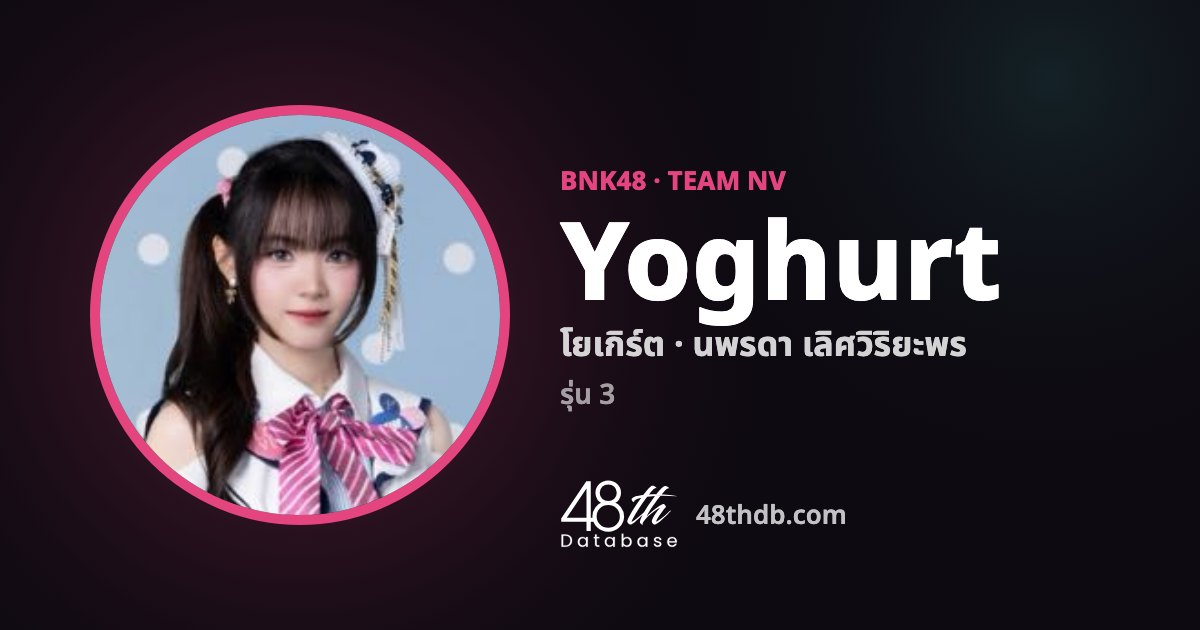
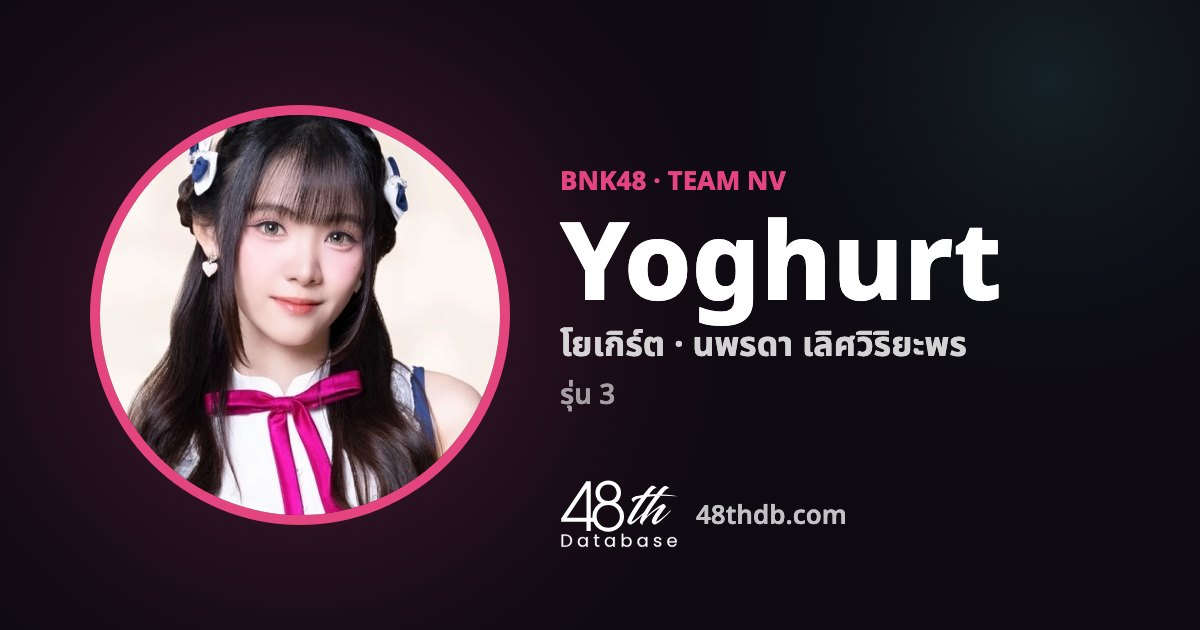
Yoghurt's new profile photo (from the Kimi to Doko ka e Ikitai set, cut square from the top) as a file, her member page and link preview rebuilt. A two-day event done for the first day is no longer faded: it reads วันนี้จบแล้ว · พรุ่งนี้ต่อ. The Worker's timeline walk gives up a number that has fail

Changed region(s): [[0.0617, 0.181, 0.4317, 0.8143]]

diff --git a/m/index.html b/m/index.html
@@ -46,7 +46,7 @@ details.en{margin-top:4px}details.en summary{cursor:pointer;color:var(--soft);fo
 </head><body><div class="wrap">
 <div class="top"><a href="/">48thDb</a><a href="/members">เปิดในเว็บ →</a></div>
 <h1>สมาชิก BNK48 และ CGM48</h1>
-<section class="grp"><h2>BNK48 (37)</h2><div class="list"><a href="/m/bnk-arlee"><img src="/photos/bnk-arlee.jpg" alt="" loading="lazy" width="36" height="36"><span><b>Arlee</b><small>อาหลี · Team NV</small></span></a><a href="/m/bnk-berry"><img src="/photos/bnk-berry.jpg" alt="" loading="lazy" width="36" height="36"><span><b>Berry</b><small>เบอร์รี่ · Team NV</small></span></a><a href="/m/bnk-blythe"><img src="/photos/bnk-blythe.jpg" alt="" loading="lazy" width="36" height="36"><span><b>Blythe</b><small>บลายธ์ · เด็กฝึก (Trainee)</small></span></a><a href="/m/bnk-cartoon"><img src="/photos/bnk-cartoon.jpg" alt="" loading="lazy" width="36" height="36"><span><b>Cartoon</b><small>การ์ตูน · เด็กฝึก (Trainee)</small></span></a><a href="/m/bnk-emmy"><img src="/photos/bnk-emmy.jpg" alt="" loading="lazy" width="36" height="36"><span><b>Emmy</b><small>เอ็มมี่ · Team NV</small></span></a><a href="/m/bnk-fame"><img src="/photos/bnk-fame.jpg" alt="" loading="lazy" width="36" height="36"><span><b>Fame</b><small>เฟม · Team BIII</small></span></a><a href="/m/bnk-galeya"><img src="/photos/bnk-galeya.jpg" alt="" loading="lazy" width="36" height="36"><span><b>Galeya</b><small>เกลญ่า · เด็กฝึก (Trainee)</small></span></a><a href="/m/bnk-grape"><img src="/photos/bnk-grape.jpg" alt="" loading="lazy" width="36" height="36"><span><b>Grape</b><small>เกรฟ · เด็กฝึก (Trainee)</small></span></a><a href="/m/bnk-hoop"><img src="/photos/bnk-hoop.jpg" alt="" loading="lazy" width="36" height="36"><span><b>Hoop</b><small>ฮูพ · Team BIII</small></span></a><a href="/m/bnk-inkcha"><img src="/photos/bnk-inkcha.jpg" alt="" loading="lazy" width="36" height="36"><span><b>Inkcha</b><small>อิ้งค์ชา · เด็กฝึก (Trainee)</small></span></a><a href="/m/bnk-janry"><img src="/photos/bnk-janry.jpg" alt="" loading="lazy" width="36" height="36"><span><b>Janry</b><small>แจนรี่ · Team BIII</small></span></a><a href="/m/bnk-jew"><img src="/photos/bnk-jew.jpg" alt="" loading="lazy" width="36" height="36"><span><b>Jew</b><small>จิว · Team NV</small></span></a><a href="/m/bnk-khaimook"><img src="/photos/bnk-khaimook.jpg" alt="" loading="lazy" width="36" height="36"><span><b>Khaimook</b><small>ไข่มุก · เด็กฝึก (Trainee)</small></span></a><a href="/m/bnk-khowjow"><img src="/photos/bnk-khowjow.jpg" alt="" loading="lazy" width="36" height="36"><span><b>Khowjow</b><small>ข้าวจ้าว · เด็กฝึก (Trainee)</small></span></a><a href="/m/bnk-l"><img src="/photos/bnk-l.jpg" alt="" loading="lazy" width="36" height="36"><span><b>L</b><small>แอล · Team NV</small></span></a><a href="/m/bnk-luksorn"><img src="/photos/bnk-luksorn.jpg" alt="" loading="lazy" width="36" height="36"><span><b>Luksorn</b><small>ลูกศร · Team BIII</small></span></a><a href="/m/bnk-mail"><img src="/photos/bnk-mail.jpg" alt="" loading="lazy" width="36" height="36"><span><b>Mail</b><small>เมล · Team BIII</small></span></a><a href="/m/bnk-marine"><img src="/photos/bnk-marine.jpg" alt="" loading="lazy" width="36" height="36"><span><b>Marine</b><small>มารีน · Team BIII</small></span></a><a href="/m/bnk-mayji"><img src="/photos/bnk-mayji.jpg" alt="" loading="lazy" width="36" height="36"><span><b>Mayji</b><small>เมย์จิ · เด็กฝึก (Trainee)</small></span></a><a href="/m/bnk-micha"><img src="/photos/bnk-micha.jpg" alt="" loading="lazy" width="36" height="36"><span><b>Micha</b><small>มิชา · Team BIII</small></span></a><a href="/m/bnk-mint"><img src="/photos/bnk-mint.jpg" alt="" loading="lazy" width="36" height="36"><span><b>Mint</b><small>มิ้นท์ · เด็กฝึก (Trainee)</small></span></a><a href="/m/bnk-mirin"><img src="/photos/bnk-mirin.jpg" alt="" loading="lazy" width="36" height="36"><span><b>Mirin</b><small>มิริน · เด็กฝึก (Trainee)</small></span></a><a href="/m/bnk-monet"><img src="/photos/bnk-monet.jpg" alt="" loading="lazy" width="36" height="36"><span><b>Monet</b><small>โมเน่ต์ · Team BIII</small></span></a><a href="/m/bnk-nall"><img src="/photos/bnk-nall.jpg" alt="" loading="lazy" width="36" height="36"><span><b>Nall</b><small>แนล · เด็กฝึก (Trainee)</small></span></a><a href="/m/bnk-nammonn"><img src="/photos/bnk-nammonn.jpg" alt="" loading="lazy" width="36" height="36"><span><b>Nammonn</b><small>น้ำมนต์ · เด็กฝึก (Trainee)</small></span></a><a href="/m/bnk-neen"><img src="/photos/bnk-neen.jpg" alt="" loading="lazy" width="36" height="36"><span><b>Neen</b><small>นีน · เด็กฝึก (Trainee)</small></span></a><a href="/m/bnk-niya"><img src="/photos/bnk-niya.jpg" alt="" loading="lazy" width="36" height="36"><span><b>Niya</b><small>นีญ่า · เด็กฝึก (Trainee)</small></span></a><a href="/m/bnk-palmmy"><img src="/photos/bnk-palmmy.jpg" alt="" loading="lazy" width="36" height="36"><span><b>Palmmy</b><small>ปาล์มมี่ · Team NV</small></span></a><a href="/m/bnk-pancake"><img src="/photos/bnk-pancake.jpg" alt="" loading="lazy" width="36" height="36"><span><b>Pancake</b><small>แพนเค้ก · Team NV</small></span></a><a href="/m/bnk-patt"><img src="/photos/bnk-patt.jpg" alt="" loading="lazy" width="36" height="36"><span><b>Patt</b><small>แพท · Team BIII</small></span></a><a href="/m/bnk-praew"><img src="/photos/bnk-praew.jpg" alt="" loading="lazy" width="36" height="36"><span><b>Praew</b><small>แพรว · Team BIII</small></span></a><a href="/m/bnk-proud"><img src="/photos/bnk-proud.jpg" alt="" loading="lazy" width="36" height="36"><span><b>Proud</b><small>ภราว · Team NV</small></span></a><a href="/m/bnk-rose"><img src="/photos/bnk-rose.jpg" alt="" loading="lazy" width="36" height="36"><span><b>Rose</b><small>โรส · เด็กฝึก (Trainee)</small></span></a><a href="/m/bnk-saonoi"><img src="/photos/bnk-saonoi.jpg" alt="" loading="lazy" width="36" height="36"><span><b>Saonoi</b><small>สาวน้อย · Team NV</small></span></a><a href="/m/bnk-sindy"><img src="/photos/bnk-sindy.jpg" alt="" loading="lazy" width="36" height="36"><span><b>Sindy</b><small>ซินดี้ · Team NV</small></span></a><a href="/m/bnk-wawa"><img src="/photos/bnk-wawa.jpg" alt="" loading="lazy" width="36" height="36"><span><b>Wawa</b><small>วาว่า · Team BIII</small></span></a><a href="/m/bnk-yoghurt"><span class="ph"></span><span><b>Yoghurt</b><small>โยเกิร์ต · Team NV</small></span></a></div></section><section class="grp"><h2>CGM48 (21)</h2><div class="list"><a href="/m/cgm-chifa"><img src="/photos/cgm-chifa.jpg" alt="" loading="lazy" width="36" height="36"><span><b>Chifa</b><small>ชิฟา · เด็กฝึก (Trainee)</small></span></a><a href="/m/cgm-else"><img src="/photos/cgm-else.jpg" alt="" loading="lazy" width="36" height="36"><span><b>Else</b><small>เอลฟ์ · Team C</small></span></a><a href="/m/cgm-emma"><img src="/photos/cgm-emma.jpg" alt="" loading="lazy" width="36" height="36"><span><b>Emma</b><small>เอมม่า · เด็กฝึก (Trainee)</small></span></a><a href="/m/cgm-ginna"><img src="/photos/cgm-ginna.jpg" alt="" loading="lazy" width="36" height="36"><span><b>Ginna</b><small>จีนน่า · Team C</small></span></a><a href="/m/cgm-hongyok"><img src="/photos/cgm-hongyok.jpg" alt="" loading="lazy" width="36" height="36"><span><b>Hongyok</b><small>หงษ์หยก · เด็กฝึก (Trainee)</small></span></a><a href="/m/cgm-jingjing"><img src="/photos/cgm-jingjing.jpg" alt="" loading="lazy" width="36" height="36"><span><b>Jingjing</b><small>จิงจิง · Team C</small></span></a><a href="/m/cgm-kwan"><img src="/photos/cgm-kwan.jpg" alt="" loading="lazy" width="36" height="36"><span><b>Kwan</b><small>ขวัญ · Team C</small></span></a><a href="/m/cgm-lewlew"><img src="/photos/cgm-lewlew.jpg" alt="" loading="lazy" width="36" height="36"><span><b>Lewlew</b><small>หลิวหลิว · เด็กฝึก (Trainee)</small></span></a><a href="/m/cgm-lingling"><img src="/photos/cgm-lingling.jpg" alt="" loading="lazy" width="36" height="36"><span><b>Lingling</b><small>หลิงหลิง · Team C</small></span></a><a href="/m/cgm-lookked"><img src="/photos/cgm-lookked.jpg" alt="" loading="lazy" width="36" height="36"><span><b>Lookked</b><small>ลูกเกด · Team C</small></span></a><a href="/m/cgm-namphet"><img src="/photos/cgm-namphet.jpg" alt="" loading="lazy" width="36" height="36"><span><b>Namphet</b><small>น้ำเพชร · เด็กฝึก (Trainee)</small></span></a><a href="/m/cgm-nana"><img src="/photos/cgm-nana.jpg" alt="" loading="lazy" width="36" height="36"><span><b>Nana</b><small>นานา · Team C</small></span></a><a href="/m/cgm-nisha"><img src="/photos/cgm-nisha.jpg" alt="" loading="lazy" width="36" height="36"><span><b>Nisha</b><small>นิชา · Team C</small></span></a><a href="/m/cgm-ploen"><img src="/photos/cgm-ploen.jpg" alt="" loading="lazy" width="36" height="36"><span><b>Ploen</b><small>เพลิน · Team C</small></span></a><a href="/m/cgm-prae"><img src="/photos/cgm-prae.jpg" alt="" loading="lazy" width="36" height="36"><span><b>Prae</b><small>แพร · Team C</small></span></a><a href="/m/cgm-praifa"><img src="/photos/cgm-praifa.jpg" alt="" loading="lazy" width="36" height="36"><span><b>Praifa</b><small>ปลายฟ้า · เด็กฝึก (Trainee)</small></span></a><a href="/m/cgm-punpon"><img src="/photos/cgm-punpon.jpg" alt="" loading="lazy" width="36" height="36"><span><b>Punpon</b><small>ปันผล · เด็กฝึก (Trainee)</small></span></a><a href="/m/cgm-satangpound"><img src="/photos/cgm-satangpound.jpg" alt="" loading="lazy" width="36" height="36"><span><b>Satangpound</b><small>สตางค์ปอนด์ · เด็กฝึก (Trainee)</small></span></a><a href="/m/cgm-shenae"><img src="/photos/cgm-shenae.jpg" alt="" loading="lazy" width="36" height="36"><span><b>Shenae</b><small>ชีเน่ · เด็กฝึก (Trainee)</small></span></a><a href="/m/cgm-tara"><img src="/photos/cgm-tara.jpg" alt="" loading="lazy" width="36" height="36"><span><b>Tara</b><small>ธารา · เด็กฝึก (Trainee)</small></span></a><a href="/m/cgm-valentine"><img src="/photos/cgm-valentine.jpg" alt="" loading="lazy" width="36" height="36"><span><b>Valentine</b><small>วาเลนไทน์ · เด็กฝึก (Trainee)</small></span></a></div></section>
+<section class="grp"><h2>BNK48 (37)</h2><div class="list"><a href="/m/bnk-arlee"><img src="/photos/bnk-arlee.jpg" alt="" loading="lazy" width="36" height="36"><span><b>Arlee</b><small>อาหลี · Team NV</small></span></a><a href="/m/bnk-berry"><img src="/photos/bnk-berry.jpg" alt="" loading="lazy" width="36" height="36"><span><b>Berry</b><small>เบอร์รี่ · Team NV</small></span></a><a href="/m/bnk-blythe"><img src="/photos/bnk-blythe.jpg" alt="" loading="lazy" width="36" height="36"><span><b>Blythe</b><small>บลายธ์ · เด็กฝึก (Trainee)</small></span></a><a href="/m/bnk-cartoon"><img src="/photos/bnk-cartoon.jpg" alt="" loading="lazy" width="36" height="36"><span><b>Cartoon</b><small>การ์ตูน · เด็กฝึก (Trainee)</small></span></a><a href="/m/bnk-emmy"><img src="/photos/bnk-emmy.jpg" alt="" loading="lazy" width="36" height="36"><span><b>Emmy</b><small>เอ็มมี่ · Team NV</small></span></a><a href="/m/bnk-fame"><img src="/photos/bnk-fame.jpg" alt="" loading="lazy" width="36" height="36"><span><b>Fame</b><small>เฟม · Team BIII</small></span></a><a href="/m/bnk-galeya"><img src="/photos/bnk-galeya.jpg" alt="" loading="lazy" width="36" height="36"><span><b>Galeya</b><small>เกลญ่า · เด็กฝึก (Trainee)</small></span></a><a href="/m/bnk-grape"><img src="/photos/bnk-grape.jpg" alt="" loading="lazy" width="36" height="36"><span><b>Grape</b><small>เกรฟ · เด็กฝึก (Trainee)</small></span></a><a href="/m/bnk-hoop"><img src="/photos/bnk-hoop.jpg" alt="" loading="lazy" width="36" height="36"><span><b>Hoop</b><small>ฮูพ · Team BIII</small></span></a><a href="/m/bnk-inkcha"><img src="/photos/bnk-inkcha.jpg" alt="" loading="lazy" width="36" height="36"><span><b>Inkcha</b><small>อิ้งค์ชา · เด็กฝึก (Trainee)</small></span></a><a href="/m/bnk-janry"><img src="/photos/bnk-janry.jpg" alt="" loading="lazy" width="36" height="36"><span><b>Janry</b><small>แจนรี่ · Team BIII</small></span></a><a href="/m/bnk-jew"><img src="/photos/bnk-jew.jpg" alt="" loading="lazy" width="36" height="36"><span><b>Jew</b><small>จิว · Team NV</small></span></a><a href="/m/bnk-khaimook"><img src="/photos/bnk-khaimook.jpg" alt="" loading="lazy" width="36" height="36"><span><b>Khaimook</b><small>ไข่มุก · เด็กฝึก (Trainee)</small></span></a><a href="/m/bnk-khowjow"><img src="/photos/bnk-khowjow.jpg" alt="" loading="lazy" width="36" height="36"><span><b>Khowjow</b><small>ข้าวจ้าว · เด็กฝึก (Trainee)</small></span></a><a href="/m/bnk-l"><img src="/photos/bnk-l.jpg" alt="" loading="lazy" width="36" height="36"><span><b>L</b><small>แอล · Team NV</small></span></a><a href="/m/bnk-luksorn"><img src="/photos/bnk-luksorn.jpg" alt="" loading="lazy" width="36" height="36"><span><b>Luksorn</b><small>ลูกศร · Team BIII</small></span></a><a href="/m/bnk-mail"><img src="/photos/bnk-mail.jpg" alt="" loading="lazy" width="36" height="36"><span><b>Mail</b><small>เมล · Team BIII</small></span></a><a href="/m/bnk-marine"><img src="/photos/bnk-marine.jpg" alt="" loading="lazy" width="36" height="36"><span><b>Marine</b><small>มารีน · Team BIII</small></span></a><a href="/m/bnk-mayji"><img src="/photos/bnk-mayji.jpg" alt="" loading="lazy" width="36" height="36"><span><b>Mayji</b><small>เมย์จิ · เด็กฝึก (Trainee)</small></span></a><a href="/m/bnk-micha"><img src="/photos/bnk-micha.jpg" alt="" loading="lazy" width="36" height="36"><span><b>Micha</b><small>มิชา · Team BIII</small></span></a><a href="/m/bnk-mint"><img src="/photos/bnk-mint.jpg" alt="" loading="lazy" width="36" height="36"><span><b>Mint</b><small>มิ้นท์ · เด็กฝึก (Trainee)</small></span></a><a href="/m/bnk-mirin"><img src="/photos/bnk-mirin.jpg" alt="" loading="lazy" width="36" height="36"><span><b>Mirin</b><small>มิริน · เด็กฝึก (Trainee)</small></span></a><a href="/m/bnk-monet"><img src="/photos/bnk-monet.jpg" alt="" loading="lazy" width="36" height="36"><span><b>Monet</b><small>โมเน่ต์ · Team BIII</small></span></a><a href="/m/bnk-nall"><img src="/photos/bnk-nall.jpg" alt="" loading="lazy" width="36" height="36"><span><b>Nall</b><small>แนล · เด็กฝึก (Trainee)</small></span></a><a href="/m/bnk-nammonn"><img src="/photos/bnk-nammonn.jpg" alt="" loading="lazy" width="36" height="36"><span><b>Nammonn</b><small>น้ำมนต์ · เด็กฝึก (Trainee)</small></span></a><a href="/m/bnk-neen"><img src="/photos/bnk-neen.jpg" alt="" loading="lazy" width="36" height="36"><span><b>Neen</b><small>นีน · เด็กฝึก (Trainee)</small></span></a><a href="/m/bnk-niya"><img src="/photos/bnk-niya.jpg" alt="" loading="lazy" width="36" height="36"><span><b>Niya</b><small>นีญ่า · เด็กฝึก (Trainee)</small></span></a><a href="/m/bnk-palmmy"><img src="/photos/bnk-palmmy.jpg" alt="" loading="lazy" width="36" height="36"><span><b>Palmmy</b><small>ปาล์มมี่ · Team NV</small></span></a><a href="/m/bnk-pancake"><img src="/photos/bnk-pancake.jpg" alt="" loading="lazy" width="36" height="36"><span><b>Pancake</b><small>แพนเค้ก · Team NV</small></span></a><a href="/m/bnk-patt"><img src="/photos/bnk-patt.jpg" alt="" loading="lazy" width="36" height="36"><span><b>Patt</b><small>แพท · Team BIII</small></span></a><a href="/m/bnk-praew"><img src="/photos/bnk-praew.jpg" alt="" loading="lazy" width="36" height="36"><span><b>Praew</b><small>แพรว · Team BIII</small></span></a><a href="/m/bnk-proud"><img src="/photos/bnk-proud.jpg" alt="" loading="lazy" width="36" height="36"><span><b>Proud</b><small>ภราว · Team NV</small></span></a><a href="/m/bnk-rose"><img src="/photos/bnk-rose.jpg" alt="" loading="lazy" width="36" height="36"><span><b>Rose</b><small>โรส · เด็กฝึก (Trainee)</small></span></a><a href="/m/bnk-saonoi"><img src="/photos/bnk-saonoi.jpg" alt="" loading="lazy" width="36" height="36"><span><b>Saonoi</b><small>สาวน้อย · Team NV</small></span></a><a href="/m/bnk-sindy"><img src="/photos/bnk-sindy.jpg" alt="" loading="lazy" width="36" height="36"><span><b>Sindy</b><small>ซินดี้ · Team NV</small></span></a><a href="/m/bnk-wawa"><img src="/photos/bnk-wawa.jpg" alt="" loading="lazy" width="36" height="36"><span><b>Wawa</b><small>วาว่า · Team BIII</small></span></a><a href="/m/bnk-yoghurt"><img src="/photos/bnk-yoghurt.jpg" alt="" loading="lazy" width="36" height="36"><span><b>Yoghurt</b><small>โยเกิร์ต · Team NV</small></span></a></div></section><section class="grp"><h2>CGM48 (21)</h2><div class="list"><a href="/m/cgm-chifa"><img src="/photos/cgm-chifa.jpg" alt="" loading="lazy" width="36" height="36"><span><b>Chifa</b><small>ชิฟา · เด็กฝึก (Trainee)</small></span></a><a href="/m/cgm-else"><img src="/photos/cgm-else.jpg" alt="" loading="lazy" width="36" height="36"><span><b>Else</b><small>เอลฟ์ · Team C</small></span></a><a href="/m/cgm-emma"><img src="/photos/cgm-emma.jpg" alt="" loading="lazy" width="36" height="36"><span><b>Emma</b><small>เอมม่า · เด็กฝึก (Trainee)</small></span></a><a href="/m/cgm-ginna"><img src="/photos/cgm-ginna.jpg" alt="" loading="lazy" width="36" height="36"><span><b>Ginna</b><small>จีนน่า · Team C</small></span></a><a href="/m/cgm-hongyok"><img src="/photos/cgm-hongyok.jpg" alt="" loading="lazy" width="36" height="36"><span><b>Hongyok</b><small>หงษ์หยก · เด็กฝึก (Trainee)</small></span></a><a href="/m/cgm-jingjing"><img src="/photos/cgm-jingjing.jpg" alt="" loading="lazy" width="36" height="36"><span><b>Jingjing</b><small>จิงจิง · Team C</small></span></a><a href="/m/cgm-kwan"><img src="/photos/cgm-kwan.jpg" alt="" loading="lazy" width="36" height="36"><span><b>Kwan</b><small>ขวัญ · Team C</small></span></a><a href="/m/cgm-lewlew"><img src="/photos/cgm-lewlew.jpg" alt="" loading="lazy" width="36" height="36"><span><b>Lewlew</b><small>หลิวหลิว · เด็กฝึก (Trainee)</small></span></a><a href="/m/cgm-lingling"><img src="/photos/cgm-lingling.jpg" alt="" loading="lazy" width="36" height="36"><span><b>Lingling</b><small>หลิงหลิง · Team C</small></span></a><a href="/m/cgm-lookked"><img src="/photos/cgm-lookked.jpg" alt="" loading="lazy" width="36" height="36"><span><b>Lookked</b><small>ลูกเกด · Team C</small></span></a><a href="/m/cgm-namphet"><img src="/photos/cgm-namphet.jpg" alt="" loading="lazy" width="36" height="36"><span><b>Namphet</b><small>น้ำเพชร · เด็กฝึก (Trainee)</small></span></a><a href="/m/cgm-nana"><img src="/photos/cgm-nana.jpg" alt="" loading="lazy" width="36" height="36"><span><b>Nana</b><small>นานา · Team C</small></span></a><a href="/m/cgm-nisha"><img src="/photos/cgm-nisha.jpg" alt="" loading="lazy" width="36" height="36"><span><b>Nisha</b><small>นิชา · Team C</small></span></a><a href="/m/cgm-ploen"><img src="/photos/cgm-ploen.jpg" alt="" loading="lazy" width="36" height="36"><span><b>Ploen</b><small>เพลิน · Team C</small></span></a><a href="/m/cgm-prae"><img src="/photos/cgm-prae.jpg" alt="" loading="lazy" width="36" height="36"><span><b>Prae</b><small>แพร · Team C</small></span></a><a href="/m/cgm-praifa"><img src="/photos/cgm-praifa.jpg" alt="" loading="lazy" width="36" height="36"><span><b>Praifa</b><small>ปลายฟ้า · เด็กฝึก (Trainee)</small></span></a><a href="/m/cgm-punpon"><img src="/photos/cgm-punpon.jpg" alt="" loading="lazy" width="36" height="36"><span><b>Punpon</b><small>ปันผล · เด็กฝึก (Trainee)</small></span></a><a href="/m/cgm-satangpound"><img src="/photos/cgm-satangpound.jpg" alt="" loading="lazy" width="36" height="36"><span><b>Satangpound</b><small>สตางค์ปอนด์ · เด็กฝึก (Trainee)</small></span></a><a href="/m/cgm-shenae"><img src="/photos/cgm-shenae.jpg" alt="" loading="lazy" width="36" height="36"><span><b>Shenae</b><small>ชีเน่ · เด็กฝึก (Trainee)</small></span></a><a href="/m/cgm-tara"><img src="/photos/cgm-tara.jpg" alt="" loading="lazy" width="36" height="36"><span><b>Tara</b><small>ธารา · เด็กฝึก (Trainee)</small></span></a><a href="/m/cgm-valentine"><img src="/photos/cgm-valentine.jpg" alt="" loading="lazy" width="36" height="36"><span><b>Valentine</b><small>วาเลนไทน์ · เด็กฝึก (Trainee)</small></span></a></div></section>
 <section class="grp"><h2>อดีตสมาชิก BNK48 (71)</h2><div class="list"><a href="/m/bnk-bamboo"><img src="/photos/bnk-bamboo.jpg" alt="" loading="lazy" width="36" height="36"><span><b>Bamboo</b><small>แบมบู</small></span></a><a href="/m/bnk-cake"><img src="/photos/bnk-cake.jpg" alt="" loading="lazy" width="36" height="36"><span><b>Cake</b><small>เค้ก</small></span></a><a href="/m/bnk-can"><img src="/photos/bnk-can.jpg" alt="" loading="lazy" width="36" height="36"><span><b>Can</b><small>แคน</small></span></a><a href="/m/bnk-cherprang"><img src="/photos/bnk-cherprang.jpg" alt="" loading="lazy" width="36" height="36"><span><b>Cherprang</b><small>เฌอปราง</small></span></a><a href="/m/bnk-cincin"><img src="/photos/bnk-cincin.jpg" alt="" loading="lazy" width="36" height="36"><span><b>Cincin</b><small>ซินซิน</small></span></a><a href="/m/bnk-deenee"><img src="/photos/bnk-deenee.jpg" alt="" loading="lazy" width="36" height="36"><span><b>Deenee</b><small>ดีนี่</small></span></a><a href="/m/bnk-earn"><img src="/photos/bnk-earn.jpg" alt="" loading="lazy" width="36" height="36"><span><b>Earn</b><small>เอิร์น</small></span></a><a href="/m/bnk-earth"><img src="/photos/bnk-earth.jpg" alt="" loading="lazy" width="36" height="36"><span><b>Earth</b><small>เอิร์ธ</small></span></a><a href="/m/bnk-eve"><img src="/photos/bnk-eve.jpg" alt="" loading="lazy" width="36" height="36"><span><b>Eve</b><small>อีฟ</small></span></a><a href="/m/bnk-faii"><img src="/photos/bnk-faii.jpg" alt="" loading="lazy" width="36" height="36"><span><b>Faii</b><small>ฝ้าย</small></span></a><a href="/m/bnk-fifa"><img src="/photos/bnk-fifa.jpg" alt="" loading="lazy" width="36" height="36"><span><b>Fifa</b><small>ฟีฟ่า</small></span></a><a href="/m/bnk-fond"><img src="/photos/bnk-fond.jpg" alt="" loading="lazy" width="36" height="36"><span><b>Fond</b><small>ฟ้อนด์</small></span></a><a href="/m/bnk-grace"><img src="/photos/bnk-grace.jpg" alt="" loading="lazy" width="36" height="36"><span><b>Grace</b><small>เกรซ</small></span></a><a href="/m/bnk-gygee"><img src="/photos/bnk-gygee.jpg" alt="" loading="lazy" width="36" height="36"><span><b>Gygee</b><small>จีจี้</small></span></a><a href="/m/bnk-jaa"><img src="/photos/bnk-jaa.jpg" alt="" loading="lazy" width="36" height="36"><span><b>Jaa</b><small>จ๋า</small></span></a><a href="/m/bnk-jan"><img src="/photos/bnk-jan.jpg" alt="" loading="lazy" width="36" height="36"><span><b>Jan</b><small>แจน</small></span></a><a href="/m/bnk-jane"><img src="/photos/bnk-jane.jpg" alt="" loading="lazy" width="36" height="36"><span><b>Jane</b><small>เจน</small></span></a><a href="/m/bnk-jaokhem"><img src="/photos/bnk-jaokhem.jpg" alt="" loading="lazy" width="36" height="36"><span><b>Jaokhem</b><small>เจ้าเข็ม</small></span></a><a href="/m/bnk-jeje"><img src="/photos/bnk-jeje.jpg" alt="" loading="lazy" width="36" height="36"><span><b>Jeje</b><small>จีจี้</small></span></a><a href="/m/bnk-jennis"><img src="/photos/bnk-jennis.jpg" alt="" loading="lazy" width="36" height="36"><span><b>Jennis</b><small>เจนนิษฐ์</small></span></a><a href="/m/bnk-jib"><img src="/photos/bnk-jib.jpg" alt="" loading="lazy" width="36" height="36"><span><b>Jib</b><small>จิ๊บ</small></span></a><a href="/m/bnk-june"><img src="/photos/bnk-june.jpg" alt="" loading="lazy" width="36" height="36"><span><b>Juné</b><small>จูเน่</small></span></a><a href="/m/bnk-kaew"><img src="/photos/bnk-kaew.jpg" alt="" loading="lazy" width="36" height="36"><span><b>Kaew</b><small>แก้ว</small></span></a><a href="/m/bnk-kaimook"><img src="/photos/bnk-kaimook.jpg" alt="" loading="lazy" width="36" height="36"><span><b>Kaimook</b><small>ไข่มุก</small></span></a><a href="/m/bnk-kaofrang"><img src="/photos/bnk-kaofrang.jpg" alt="" loading="lazy" width="36" height="36"><span><b>Kaofrang</b><small>ข้าวฟ่าง</small></span></a><a href="/m/bnk-kate"><img src="/photos/bnk-kate.jpg" alt="" loading="lazy" width="36" height="36"><span><b>Kate</b><small>เคท</small></span></a><a href="/m/bnk-khamin"><img src="/photos/bnk-khamin.jpg" alt="" loading="lazy" width="36" height="36"><span><b>Khamin</b><small>ขมิ้น</small></span></a><a href="/m/bnk-kheng"><img src="/photos/bnk-kheng.jpg" alt="" loading="lazy" width="36" height="36"><span><b>Kheng</b><small>เข่ง</small></span></a><a href="/m/bnk-kitkat"><img src="/photos/bnk-kitkat.jpg" alt="" loading="lazy" width="36" height="36"><span><b>Kidcat</b><small>คิตแคต</small></span></a><a href="/m/bnk-korn"><img src="/photos/bnk-korn.jpg" alt="" loading="lazy" width="36" height="36"><span><b>Korn</b><small>ก่อน</small></span></a><a href="/m/bnk-maira"><img src="/photos/bnk-maira.jpg" alt="" loading="lazy" width="36" height="36"><span><b>Maira</b><small>มัยร่า</small></span></a><a href="/m/bnk-maysa"><img src="/photos/bnk-maysa.jpg" alt="" loading="lazy" width="36" height="36"><span><b>Maysa</b><small>เมษา</small></span></a><a href="/m/bnk-mean"><img src="/photos/bnk-mean.jpg" alt="" loading="lazy" width="36" height="36"><span><b>Mean</b><small>มีน</small></span></a><a href="/m/bnk-mewnich"><img src="/photos/bnk-mewnich.jpg" alt="" loading="lazy" width="36" height="36"><span><b>Mewnich</b><small>มิวนิค</small></span></a><a href="/m/bnk-mind"><img src="/photos/bnk-mind.jpg" alt="" loading="lazy" width="36" height="36"><span><b>Mind</b><small>มายด์</small></span></a><a href="/m/bnk-minmin"><img src="/photos/bnk-minmin.jpg" alt="" loading="lazy" width="36" height="36"><span><b>Minmin</b><small>มินมิน</small></span></a><a href="/m/bnk-miori"><img src="/photos/bnk-miori.jpg" alt="" loading="lazy" width="36" height="36"><span><b>Miori</b><small>มิโอริ</small></span></a><a href="/m/bnk-mobile"><img src="/photos/bnk-mobile.jpg" alt="" loading="lazy" width="36" height="36"><span><b>Mobile</b><small>โมบายล์</small></span></a><a href="/m/bnk-music"><img src="/photos/bnk-music.jpg" alt="" loading="lazy" width="36" height="36"><span><b>Music</b><small>มิวสิค</small></span></a><a href="/m/bnk-myyu"><img src="/photos/bnk-myyu.jpg" alt="" loading="lazy" width="36" height="36"><span><b>Myyu</b><small>มายยู</small></span></a><a href="/m/bnk-namhom"><img src="/photos/bnk-namhom.jpg" alt="" loading="lazy" width="36" height="36"><span><b>Namhom</b><small>น้ำหอม</small></span></a><a href="/m/bnk-namneung"><img src="/photos/bnk-namneung.jpg" alt="" loading="lazy" width="36" height="36"><span><b>Namneung</b><small>น้ำหนึ่ง</small></span></a><a href="/m/bnk-namsai"><img src="/photos/bnk-namsai.jpg" alt="" loading="lazy" width="36" height="36"><span><b>Namsai</b><small>น้ำใส</small></span></a><a href="/m/bnk-nana"><img src="/photos/bnk-nana.jpg" alt="" loading="lazy" width="36" height="36"><span><b>Nana</b><small>นานา</small></span></a><a href="/m/bnk-natherine"><img src="/photos/bnk-natherine.jpg" alt="" loading="lazy" width="36" height="36"><span><b>Natherine</b><small>แนทเธอรีน</small></span></a><a href="/m/bnk-nene"><img src="/photos/bnk-nene.jpg" alt="" loading="lazy" width="36" height="36"><span><b>Nene</b><small>เนเน่</small></span></a><a href="/m/bnk-new"><img src="/photos/bnk-new.jpg" alt="" loading="lazy" width="36" height="36"><span><b>New</b><small>นิว</small></span></a><a href="/m/bnk-niky"><img src="/photos/bnk-niky.jpg" alt="" loading="lazy" width="36" height="36"><span><b>Niky</b><small>นิกี้</small></span></a><a href="/m/bnk-nine"><img src="/photos/bnk-nine.jpg" alt="" loading="lazy" width="36" height="36"><span><b>Nine</b><small>นาย</small></span></a><a href="/m/bnk-nink"><img src="/photos/bnk-nink.jpg" alt="" loading="lazy" width="36" height="36"><span><b>Nink</b><small>นิ้ง</small></span></a><a href="/m/bnk-noey"><img src="/photos/bnk-noey.jpg" alt="" loading="lazy" width="36" height="36"><span><b>Noey</b><small>เนย</small></span></a><a href="/m/bnk-oom"><img src="/photos/bnk-oom.jpg" alt="" loading="lazy" width="36" height="36"><span><b>Oom</b><small>อุ้ม</small></span></a><a href="/m/bnk-orn"><img src="/photos/bnk-orn.jpg" alt="" loading="lazy" width="36" height="36"><span><b>Orn</b><small>อร</small></span></a><a href="/m/bnk-paeyah"><img src="/photos/bnk-paeyah.jpg" alt="" loading="lazy" width="36" height="36"><span><b>Paeyah</b><small>ปาเอญ่า</small></span></a><a href="/m/bnk-pakwan"><img src="/photos/bnk-pakwan.jpg" alt="" loading="lazy" width="36" height="36"><span><b>Pakwan</b><small>พาขวัญ</small></span></a><a href="/m/bnk-pampam"><img src="/photos/bnk-pampam.jpg" alt="" loading="lazy" width="36" height="36"><span><b>Pampam</b><small>แพมแพม</small></span></a><a href="/m/bnk-panda"><img src="/photos/bnk-panda.jpg" alt="" loading="lazy" width="36" height="36"><span><b>Panda</b><small>แพนด้า</small></span></a><a href="/m/bnk-peak"><img src="/photos/bnk-peak.jpg" alt="" loading="lazy" width="36" height="36"><span><b>Peak</b><small>พีค</small></span></a><a href="/m/bnk-phukkhom"><img src="/photos/bnk-phukkhom.jpg" alt="" loading="lazy" width="36" height="36"><span><b>Phukkhom</b><small>ผักขม</small></span></a><a href="/m/bnk-piam"><img src="/photos/bnk-piam.jpg" alt="" loading="lazy" width="36" height="36"><span><b>Piam</b><small>เปี่ยม</small></span></a><a href="/m/bnk-pim"><img src="/photos/bnk-pim.jpg" alt="" loading="lazy" width="36" height="36"><span><b>Pim</b><small>พิม</small></span></a><a href="/m/bnk-popper"><img src="/photos/bnk-popper.jpg" alt="" loading="lazy" width="36" height="36"><span><b>Popper</b><small>ป๊อปเป้อ</small></span></a><a href="/m/bnk-pun"><img src="/photos/bnk-pun.jpg" alt="" loading="lazy" width="36" height="36"><span><b>Pun</b><small>ปัญ</small></span></a><a href="/m/bnk-pupe"><img src="/photos/bnk-pupe.jpg" alt="" loading="lazy" width="36" height="36"><span><b>Pupe</b><small>ปูเป้</small></span></a><a href="/m/bnk-ratah"><img src="/photos/bnk-ratah.jpg" alt="" loading="lazy" width="36" height="36"><span><b>Ratah</b><small>รตา</small></span></a><a href="/m/bnk-satchan"><img src="/photos/bnk-satchan.jpg" alt="" loading="lazy" width="36" height="36"><span><b>Satchan</b><small>ซัทจัง</small></span></a><a href="/m/bnk-stang"><img src="/photos/bnk-stang.jpg" alt="" loading="lazy" width="36" height="36"><span><b>Stang</b><small>สตางค์</small></span></a><a href="/m/bnk-tarwaan"><img src="/photos/bnk-tarwaan.jpg" alt="" loading="lazy" width="36" height="36"><span><b>Tarwaan</b><small>ตาหวาน</small></span></a><a href="/m/bnk-view"><img src="/photos/bnk-view.jpg" alt="" loading="lazy" width="36" height="36"><span><b>View</b><small>วิว</small></span></a><a href="/m/bnk-wee"><img src="/photos/bnk-wee.jpg" alt="" loading="lazy" width="36" height="36"><span><b>Wee</b><small>วี</small></span></a><a href="/m/bnk-yayee"><img src="/photos/bnk-yayee.jpg" alt="" loading="lazy" width="36" height="36"><span><b>Yayee</b><small>ยาหยี</small></span></a></div></section><section class="grp"><h2>อดีตสมาชิก CGM48 (29)</h2><div class="list"><a href="/m/cgm-angel"><img src="/photos/cgm-angel.jpg" alt="" loading="lazy" width="36" height="36"><span><b>Angel</b><small>แองเจิ้ล</small></span></a><a href="/m/cgm-aom"><img src="/photos/cgm-aom.jpg" alt="" loading="lazy" width="36" height="36"><span><b>Aom</b><small>ออม</small></span></a><a href="/m/cgm-champoo"><img src="/photos/cgm-champoo.jpg" alt="" loading="lazy" width="36" height="36"><span><b>Champoo</b><small>แชมพู</small></span></a><a href="/m/cgm-fahsai"><img src="/photos/cgm-fahsai.jpg" alt="" loading="lazy" width="36" height="36"><span><b>Fahsai</b><small>ฟ้าใส</small></span></a><a href="/m/cgm-fortune"><img src="/photos/cgm-fortune.jpg" alt="" loading="lazy" width="36" height="36"><span><b>Fortune</b><small>ฟอร์จูน</small></span></a><a href="/m/cgm-izurina"><img src="/photos/cgm-izurina.jpg" alt="" loading="lazy" width="36" height="36"><span><b>Izurina</b><small>อิซึรินะ</small></span></a><a href="/m/cgm-jayda"><img src="/photos/cgm-jayda.jpg" alt="" loading="lazy" width="36" height="36"><span><b>Jayda</b><small>เจย์ดา</small></span></a><a href="/m/cgm-jjae"><img src="/photos/cgm-jjae.jpg" alt="" loading="lazy" width="36" height="36"><span><b>Jjae</b><small>เจเจ</small></span></a><a href="/m/cgm-kaiwan"><img src="/photos/cgm-kaiwan.jpg" alt="" loading="lazy" width="36" height="36"><span><b>Kaiwan</b><small>ไข่หวาน</small></span></a><a href="/m/cgm-kaning"><img src="/photos/cgm-kaning.jpg" alt="" loading="lazy" width="36" height="36"><span><b>Kaning</b><small>คนิ้ง</small></span></a><a href="/m/cgm-kyla"><img src="/photos/cgm-kyla.jpg" alt="" loading="lazy" width="36" height="36"><span><b>Kyla</b><small>เคียล่า</small></span></a><a href="/m/cgm-latin"><img src="/photos/cgm-latin.jpg" alt="" loading="lazy" width="36" height="36"><span><b>Latin</b><small>ลาติน</small></span></a><a href="/m/cgm-marmink"><img src="/photos/cgm-marmink.jpg" alt="" loading="lazy" width="36" height="36"><span><b>Marmink</b><small>มามิ้งค์</small></span></a><a href="/m/cgm-meen"><img src="/photos/cgm-meen.jpg" alt="" loading="lazy" width="36" height="36"><span><b>Meen</b><small>มีน</small></span></a><a href="/m/cgm-mei"><img src="/photos/cgm-mei.jpg" alt="" loading="lazy" width="36" height="36"><span><b>Mei</b><small>เหมย</small></span></a><a href="/m/cgm-meilli"><img src="/photos/cgm-meilli.jpg" alt="" loading="lazy" width="36" height="36"><span><b>Meilli</b><small>เหมยลี่</small></span></a><a href="/m/cgm-milk"><img src="/photos/cgm-milk.jpg" alt="" loading="lazy" width="36" height="36"><span><b>Milk</b><small>มิลค์</small></span></a><a href="/m/cgm-nena"><img src="/photos/cgm-nena.jpg" alt="" loading="lazy" width="36" height="36"><span><b>Nena</b><small>นีน่า</small></span></a><a href="/m/cgm-nenie"><img src="/photos/cgm-nenie.jpg" alt="" loading="lazy" width="36" height="36"><span><b>Nenie</b><small>นีนี่</small></span></a><a href="/m/cgm-nicha"><img src="/photos/cgm-nicha.jpg" alt="" loading="lazy" width="36" height="36"><span><b>Nicha</b><small>ณิชา</small></span></a><a href="/m/cgm-papang"><img src="/photos/cgm-papang.jpg" alt="" loading="lazy" width="36" height="36"><span><b>Papang</b><small>พะแพง</small></span></a><a href="/m/cgm-parima"><img src="/photos/cgm-parima.jpg" alt="" loading="lazy" width="36" height="36"><span><b>Parima</b><small>ปะริมะ</small></span></a><a href="/m/cgm-pepo"><img src="/photos/cgm-pepo.jpg" alt="" loading="lazy" width="36" height="36"><span><b>Pepo</b><small>ปีโป้</small></span></a><a href="/m/cgm-pim"><img src="/photos/cgm-pim.jpg" alt="" loading="lazy" width="36" height="36"><span><b>Pim</b><small>พิม</small></span></a><a href="/m/cgm-ping"><img src="/photos/cgm-ping.jpg" alt="" loading="lazy" width="36" height="36"><span><b>Ping</b><small>ปิ๊ง</small></span></a><a href="/m/cgm-punch"><img src="/photos/cgm-punch.jpg" alt="" loading="lazy" width="36" height="36"><span><b>Punch</b><small>พั้นซ์</small></span></a><a href="/m/cgm-runma"><img src="/photos/cgm-runma.jpg" alt="" loading="lazy" width="36" height="36"><span><b>Runma</b><small>รันม่า</small></span></a><a href="/m/cgm-sita"><img src="/photos/cgm-sita.jpg" alt="" loading="lazy" width="36" height="36"><span><b>Sita</b><small>สิตา</small></span></a><a href="/m/cgm-twobam"><img src="/photos/cgm-twobam.jpg" alt="" loading="lazy" width="36" height="36"><span><b>Twobam</b><small>ทูแบม</small></span></a></div></section>
 <p class="foot">48thDb · เว็บฐานข้อมูล BNK48 และ CGM48 ที่จัดทำโดยแฟนคลับ ไม่ใช่เว็บทางการ</p>
 </div></body></html>

diff --git a/index.html b/index.html
@@ -5665,7 +5665,7 @@ const SEED_MEMBERS = [
   { id:'bnk-proud', name:'Proud', nameTh:'ภราว', realName:'Pharawee Chirathadasakun', realNameTh:'ภารวี จิรธาดาสกุล', groupId:'bnk48', teamId:'nv', gen:5, birthday:'2002-11-14', height:155, blood:'O', hometown:'ปทุมธานี', hobby:'ฟังเพลง อ่านนิยาย ทำอาหาร', likes:'ชีส ขนมหวาน แมวตัวอ้วน ๆ', photo:'photos/bnk-proud.jpg', facts:[] },
   { id:'bnk-saonoi', name:'Saonoi', nameTh:'สาวน้อย', realName:'Pichsinee Itthiratanakomol', realNameTh:'พิชญ์สินี อิทธิรัตนะโกมล', groupId:'bnk48', teamId:'nv', gen:5, birthday:'2005-11-09', height:161, blood:'O', hometown:'กรุงเทพฯ', hobby:'ร้องเพลง ดูหนังซีรีส์ เรียนภาษา ทำขนม', likes:'ไอดอล แมว ชาเขียว ช็อคมิ้น เมคอัพ', photo:'photos/bnk-saonoi.jpg', facts:['สมาชิกรุ่น 5 คนแรกที่ได้เข้าเซ็มบัตสึ','พูดภาษาเกาหลีได้'] },
   { id:'bnk-sindy', name:'Sindy', nameTh:'ซินดี้', realName:'Kitchaya Udomboondee', realNameTh:'กฤตชญา อุดมบุญดี', groupId:'bnk48', teamId:'nv', gen:4, birthday:'2009-04-03', height:160, blood:'AB', hobby:'ร้องเพลง วาดรูป เต้น ฟังเพลง เล่นเปียโน กีต้าร์ ถ่ายติ้กตอก', likes:'หมา แมว ชอบกินขนม', photo:'photos/bnk-sindy.jpg', facts:['ชื่อจีน 余泯錡','เล่นเปียโนและกีตาร์ได้','สีไฟฉายชมพู-ม่วง'] },
[1 lines of base64/hex data omitted]
+  { id:'bnk-yoghurt', name:'Yoghurt', nameTh:'โยเกิร์ต', artist:'NCT', realName:'Nopparada Leartviriyaporn', realNameTh:'นพรดา เลิศวิริยะพร', groupId:'bnk48', teamId:'nv', gen:3, birthday:'2004-11-10', height:169, blood:'O', hometown:'กรุงเทพฯ', hobby:'ดูหนัง ฟังเพลง ทำขนม อ่านนิยาย เล่นกีต้าร์ เล่นอูคูเลเล่', likes:'นอน กิน ถ่ายรูป ดูหนัง ช็อคโกแลต ไดฟุกุชาเขียว กล้องฟิล์ม อวกาศ', photo:'photos/bnk-yoghurt.jpg', facts:['โอชิคือ ฟอร์จูน CGM48','เล่นกีตาร์และอูคูเลเลได้','สีไฟฉายแดง-น้ำเงิน'] },
   // ---- BNK48 Trainee ----
   { id:'bnk-blythe', name:'Blythe', nameTh:'บลายธ์', realName:'Natransa Sirilapviboon', realNameTh:'ณัฏฐ์รัญศา ศิริลาภวิบูรณ์', groupId:'bnk48', teamId:'trainee-bnk', gen:6, birthday:'2010-07-22', height:164, blood:'B', hometown:'กรุงเทพฯ', club:'Manchester United', hobby:'ดูหนัง ฟังเพลง เต้น ร้องเพลง เล่นเกม ไปเที่ยว', likes:'สัตว์ทุกชนิด ข้าวผัดกุ้ง มาการอง ช็อคโกแล็ต', photo:'photos/bnk-blythe.jpg', facts:['สมาชิกคนเดียวของรุ่น 6 ที่มาจากการทาบทาม — ฮูพเห็นเธอร้องนำกับวงดนตรีที่สยามสแควร์ ซอย 3','คนที่ 2 ของวงที่มาจากการทาบทาม ต่อจากแก้ว','MBTI ENFP'] },
   { id:'bnk-cartoon', name:'Cartoon', nameTh:'การ์ตูน', realName:'Natthathida Na Amphai', realNameTh:'ณัฎฐธิดา ณ อัมภัย', groupId:'bnk48', teamId:'trainee-bnk', gen:6, birthday:'2009-08-26', height:163, blood:'AB', hometown:'ศรีสะเกษ', hobby:'อ่านนิยาย ร้องเพลง ดูอะนิเมะ เล่นเกม', likes:'แมว กระต่าย แพนด้าแดง ก๋วยเตี๋ยวน้ำตกไม่ผัก', photo:'photos/bnk-cartoon.jpg', facts:['MBTI INFP'] },
@@ -8469,6 +8469,7 @@ const EN = {
   'เกิดวันเดียวกัน': 'Born the same day',
   'เซ็นเตอร์': 'Centre',
   'วันนี้ที่ 48': '48 Today',
+  'วันนี้จบแล้ว · พรุ่งนี้ต่อ': 'Done for today · on again tomorrow',
   'วันเกิดวันนี้': 'Birthdays today',
   'วันเกิดที่ใกล้ถึง': 'Birthdays coming up',
   'กำลังมีงานวันนี้': 'On today',
@@ -11760,10 +11761,12 @@ function renderSaleLine(ev){
 function renderEventCard(ev, todayIso){
   const runsToday = !ev.cancelled && ev.start <= todayIso && eventLastDay(ev) >= todayIso;
   const over = runsToday && !ev.period && doneForToday(ev, todayIso);
-  const when = ev.cancelled ? '' : over ? 'จบแล้ว' : eventWhenLabel(ev, todayIso);
+  // over for today but on again tomorrow (a two-day event): not faded, it is still ahead
+  const more = over && eventLastDay(ev) > todayIso;
+  const when = ev.cancelled ? '' : more ? 'วันนี้จบแล้ว · พรุ่งนี้ต่อ' : over ? 'จบแล้ว' : eventWhenLabel(ev, todayIso);
   const isNow = runsToday && !over;
-  // over for today, or over altogether: drawn faded, so what is still ahead stands out
-  const done = over || (!ev.cancelled && eventLastDay(ev) < todayIso);
+  // over for good: drawn faded, so what is still ahead stands out
+  const done = (over && !more) || (!ev.cancelled && eventLastDay(ev) < todayIso);
   // a rota on the day it ran: the people who were there, not the whole run
   const ids = over && ev.slots ? [...new Set(slotsOn(ev, todayIso).flatMap(s => s.members))] : (ev.members || []);
   const all = ids.map(getMember).filter(Boolean);

diff --git a/m/bnk-yoghurt.html b/m/bnk-yoghurt.html
@@ -43,12 +43,12 @@ h2{font-size:18px;margin:22px 0 8px}ul{margin:0;padding-left:20px}
 .bio p{margin:0 0 10px}.bio a{color:var(--mn);font-weight:700;text-decoration:none}.bio a.ht{color:var(--ht)}
 details.en{margin-top:4px}details.en summary{cursor:pointer;color:var(--soft);font-size:14px;font-weight:700;margin-bottom:8px}
 .foot{margin-top:28px;font-size:13px;color:var(--soft);text-align:center}</style>
-<script type="application/ld+json">{"@context":"https://schema.org","@type":"Person","name":"Yoghurt","alternateName":["โยเกิร์ต","นพรดา เลิศวิริยะพร","Nopparada Leartviriyaporn"],"url":"https://48thdb.com/m/bnk-yoghurt","image":"https://48thdb.com/photos/og/bnk-yoghurt.jpg","description":"โยเกิร์ต นพรดา เลิศวิริยะพร สมาชิก BNK48 รุ่นที่ 3 เข้าวงเป็นเด็กฝึกเมื่อมีนาคม 2020 และขึ้นเป็นสมาชิก #TeamNV ในเดือนมิถุนายน 2022 เกิดเมื่อ 10 พฤศจิกายน 2004 ที่กรุงเทพฯ เป็น #เซ็นเตอร์ เพลง Ponytail to Shushu จากอัลบั้มชุดที่ 6 คู่กับ Pancake เข้าเซ็มบัตสึ A-side 6 ซิงเกิล ตั้งแต่ สัญญานะ ถึง Masaka no Confession อันดับเลือกตั้งขยับจากที่ 38 ในครั้งที่ 3 เป็นที่ 22 ในครั้งที่ 4 และเข้ากลุ่มเซ็มบัตสึที่อันดับ 8 ในครั้งที่ 5 เล่นกีตาร์และอูคูเลเลได้ ชอบทำขนม อ่านนิยาย กล้องฟิล์ม และเรื่องอวกาศ ศิลปินที่ชอบคือ NCT ส่วนโอชิในวงคือ Fortune จาก CGM48 สีไฟฉายประจำตัวคือแดง-น้ำเงิน #เล่นดนตรี #ทำขนม","birthDate":"2004-11-10","birthPlace":"กรุงเทพฯ","memberOf":{"@type":"MusicGroup","name":"BNK48"}}</script>
+<script type="application/ld+json">{"@context":"https://schema.org","@type":"Person","name":"Yoghurt","alternateName":["โยเกิร์ต","นพรดา เลิศวิริยะพร","Nopparada Leartviriyaporn"],"url":"https://48thdb.com/m/bnk-yoghurt","image":"https://48thdb.com/photos/bnk-yoghurt.jpg","description":"โยเกิร์ต นพรดา เลิศวิริยะพร สมาชิก BNK48 รุ่นที่ 3 เข้าวงเป็นเด็กฝึกเมื่อมีนาคม 2020 และขึ้นเป็นสมาชิก #TeamNV ในเดือนมิถุนายน 2022 เกิดเมื่อ 10 พฤศจิกายน 2004 ที่กรุงเทพฯ เป็น #เซ็นเตอร์ เพลง Ponytail to Shushu จากอัลบั้มชุดที่ 6 คู่กับ Pancake เข้าเซ็มบัตสึ A-side 6 ซิงเกิล ตั้งแต่ สัญญานะ ถึง Masaka no Confession อันดับเลือกตั้งขยับจากที่ 38 ในครั้งที่ 3 เป็นที่ 22 ในครั้งที่ 4 และเข้ากลุ่มเซ็มบัตสึที่อันดับ 8 ในครั้งที่ 5 เล่นกีตาร์และอูคูเลเลได้ ชอบทำขนม อ่านนิยาย กล้องฟิล์ม และเรื่องอวกาศ ศิลปินที่ชอบคือ NCT ส่วนโอชิในวงคือ Fortune จาก CGM48 สีไฟฉายประจำตัวคือแดง-น้ำเงิน #เล่นดนตรี #ทำขนม","birthDate":"2004-11-10","birthPlace":"กรุงเทพฯ","memberOf":{"@type":"MusicGroup","name":"BNK48"}}</script>
 <script>if(/[?&]go\b/.test(location.search)) location.replace("/?m=bnk-yoghurt");</script>
 </head><body><div class="wrap" style="--c:#E4457E">
 <div class="top"><a href="/">48thDb</a><a href="/m/">สมาชิกทั้งหมด</a></div>
 <main class="card">
[1 lines of base64/hex data omitted]
+  <div class="hero"><img src="/photos/bnk-yoghurt.jpg" alt="Yoghurt" width="132" height="132">
     <div><h1>Yoghurt</h1><p class="sub">โยเกิร์ต · นพรดา เลิศวิริยะพร</p>
     <div class="chips"><span class="chip g">BNK48</span><span class="chip">Team NV</span><span class="chip">รุ่น 3</span></div></div></div>
   <a class="go" href="/?m=bnk-yoghurt">ดูโปรไฟล์เต็ม งาน และสถิติบน 48thDb →</a>

diff --git a/worker/live-worker.js b/worker/live-worker.js
@@ -280,7 +280,7 @@ export function tlParse(n, html, now) {
 async function tlProbe(n, now) {
   const res = await fetch(TL_URL(n), { headers: { 'user-agent': 'Mozilla/5.0 (48thDb timeline; 48thdb.com)', accept: 'text/html' }, cf: { cacheTtl: 0 } });
   if (res.status === 404) return { n, gone: true };
-  if (!res.ok) return { n, failed: true };
+  if (!res.ok) return { n, failed: true, status: res.status };
   return { n, post: tlParse(n, await res.text(), now) };
 }
 async function tlScan(env) {
@@ -292,7 +292,12 @@ async function tlScan(env) {
   if (!st.max) { if (!ahead) return { skipped: 'no-start' }; st.max = ahead - 60; }
   const from = st.max, now = Date.now();
   const asks = [...Array(TL_STEP).keys()].map((i) => from + 1 + i).concat(TL_FAR.map((d) => from + d));
-  const got = await Promise.all(asks.map((n) => tlProbe(n, now).catch(() => ({ n, failed: true }))));
+  const got = await Promise.all(asks.map((n) => tlProbe(n, now).catch((e) => ({ n, failed: true, status: String((e && e.message) || e).slice(0, 60) }))));
+  // a number that keeps failing (an error page, a refusal) is given up after three runs, so it cannot hold the walk forever
+  st.fails = st.fails || {};
+  for (const r of got) if (r.failed && r.n <= from + TL_STEP) { st.fails[r.n] = (st.fails[r.n] || 0) + 1; if (st.fails[r.n] >= 3) { r.failed = false; r.gone = true; } }
+  for (const k of Object.keys(st.fails)) if (+k <= from) delete st.fails[k];
+  st.last = { at: new Date(now).toISOString(), answers: got.reduce((o, r) => { const k = r.post ? 'post' : r.gone ? '404' : String(r.status || 'failed'); o[k] = (o[k] || 0) + 1; return o; }, {}) };
   const ids = await iamIds(env).catch(() => ({}));
   const who = Object.fromEntries(Object.entries(ids).map(([m, i]) => [i, m]));
   const have = new Set(st.posts.map((p) => p.n));
@@ -314,15 +319,15 @@ async function tlScan(env) {
   st.max = Math.max(from, max);
   st.posts = st.posts.filter((p) => now - Date.parse(p.at) < TL_KEEP_MS).sort((a, b) => b.n - a.n).slice(0, TL_KEEP);
   st.at = new Date(now).toISOString();
-  if (added || st.max !== from) await env.IAM.put(TL_KEY, JSON.stringify(st));
-  await writeCache(TL_CACHE, { checked: st.at, posts: st.posts }, 60);
+  if (added || st.max !== from || got.some((r) => r.failed)) await env.IAM.put(TL_KEY, JSON.stringify(st));
+  await writeCache(TL_CACHE, { checked: st.at, posts: st.posts, walk: { max: st.max, last: st.last } }, 60);
   return { from, max: st.max, ahead, added };
 }
 async function tlRecent(env) {
   const hit = await readCache(TL_CACHE);
   if (hit) return hit;
   const st = (await env.IAM.get(TL_KEY, 'json')) || { posts: [] };
-  const body = { checked: st.at || null, posts: st.posts || [] };
+  const body = { checked: st.at || null, posts: st.posts || [], walk: { max: st.max, last: st.last || null } };
   await writeCache(TL_CACHE, body, 60);
   return body;
 }
